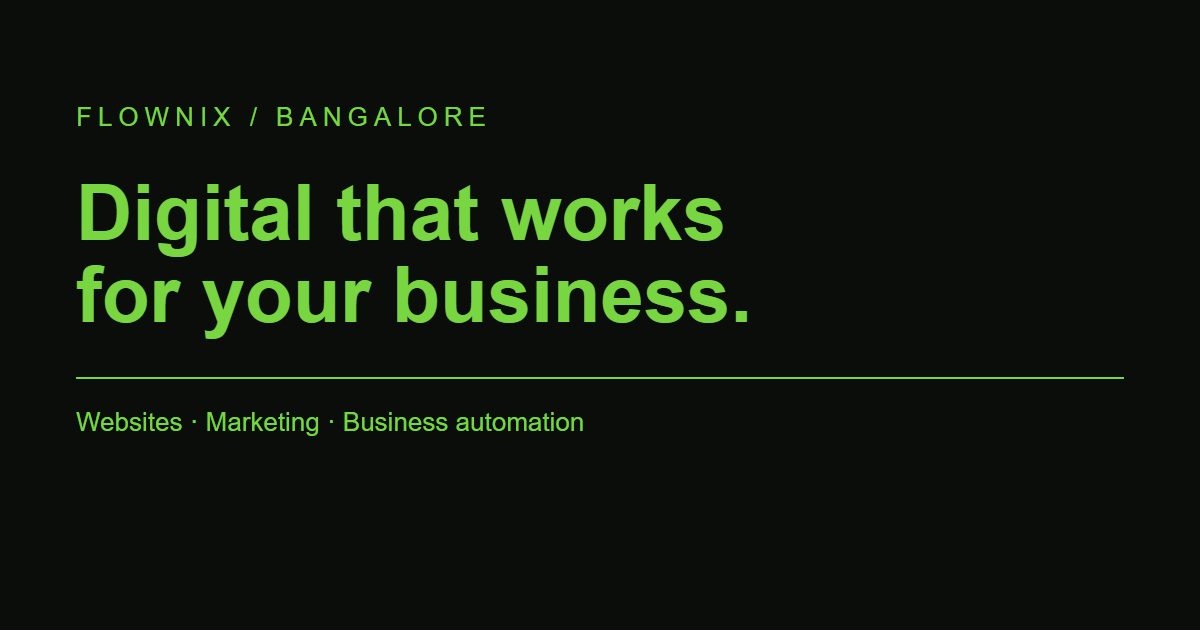
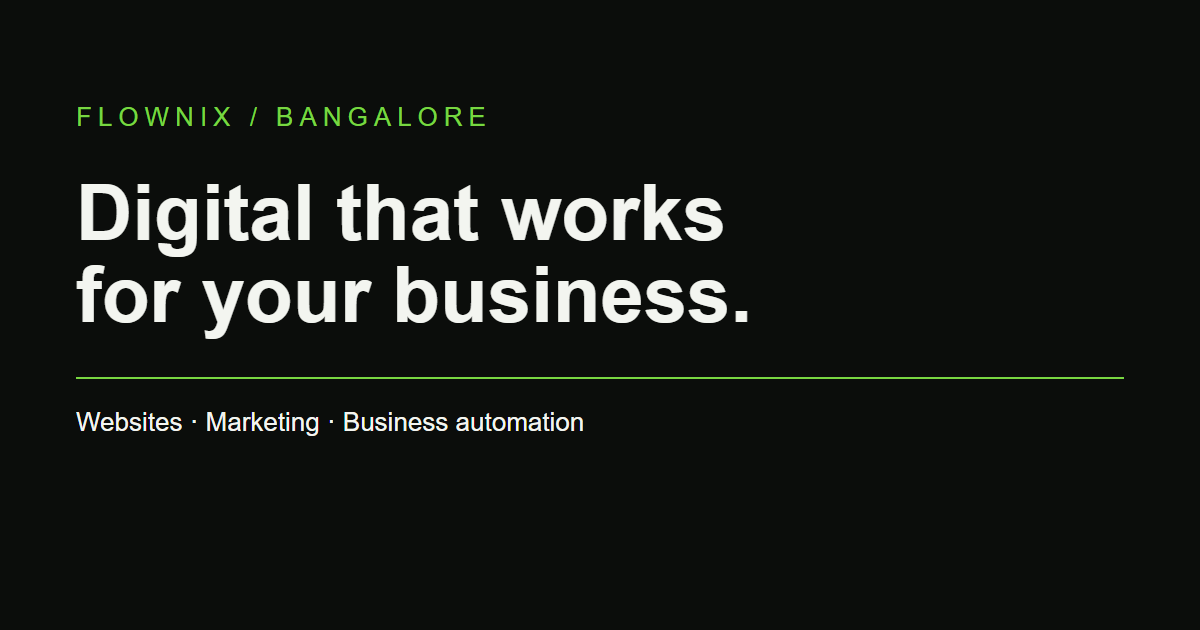
Refine dark theme with neutral text and original project colours

Changed region(s): [[0.0617, 0.2714, 0.6475, 0.5429], [0.0617, 0.6333, 0.4933, 0.6937]]

diff --git a/index-standalone.html b/index-standalone.html
@@ -150,7 +150,7 @@
     .project-image{height:clamp(230px,31vw,390px);display:block;position:relative;overflow:hidden;background:#0B0D0B;isolation:isolate}
     .project-image:after{content:'';position:absolute;inset:35% 0 0;background:linear-gradient(180deg,transparent,rgba(11,13,11,.55));pointer-events:none}
     .project-shot{display:block;width:100%;height:100%;object-fit:cover;object-position:top center;transition:transform .8s cubic-bezier(.2,.7,.2,1),filter .4s ease}
-    .project-work:hover .project-shot{transform:scale(1.045);filter:url(#brand-duotone)}
+    .project-work:hover .project-shot{transform:scale(1.045);filter:none}
     .project-open{position:absolute;z-index:2;right:16px;bottom:15px;display:inline-flex;gap:10px;align-items:center;padding:10px 14px;border:1px solid rgba(120,214,65,.3);border-radius:50px;background:rgba(11,13,11,.72);backdrop-filter:blur(12px);font-size:12px;font-weight:700;color:#78D641;transition:background .25s,color .25s,transform .25s}
     .project-work:hover .project-open{background:var(--lime);color:#0B0D0B;transform:translateY(-2px)}
     .project-kicker{color:var(--lime);font-size:10px;text-transform:uppercase;letter-spacing:1.5px;font-weight:700;margin-bottom:8px}
@@ -172,8 +172,8 @@
     .browser-bar i:first-child{background:#78D641}.browser-bar i:nth-child(2){background:#78D641}.browser-bar i:nth-child(3){background:#78D641}
     .browser-address{height:15px;display:flex;align-items:center;flex:1;min-width:0;margin-left:5px;padding:0 9px;border-radius:5px;background:#78D641;color:#78D641;white-space:nowrap;overflow:hidden;text-overflow:ellipsis;font-size:8px}
     .browser-bar b{font-size:10px;font-weight:500;margin:0 3px}
-    .project-shot{display:block;width:100%;height:calc(100% - 25px);object-fit:cover;object-position:top center;transition:transform .9s cubic-bezier(.2,.7,.2,1),filter .5s;filter:url(#brand-duotone)}
-    .project-work:hover .project-shot{transform:scale(1.055);filter:url(#brand-duotone)}
+    .project-shot{display:block;width:100%;height:calc(100% - 25px);object-fit:cover;object-position:top center;transition:transform .9s cubic-bezier(.2,.7,.2,1),filter .5s;filter:none}
+    .project-work:hover .project-shot{transform:scale(1.055);filter:none}
     .project-open{right:30px;bottom:18px;opacity:0;transform:translateY(8px);transition:opacity .3s,transform .3s;background:rgba(11,13,11,.86);border-color:rgba(120,214,65,.22);backdrop-filter:blur(14px)}
     .project-work:hover .project-open,.project-image:focus-visible .project-open{opacity:1;transform:translateY(0)}
     .project-work .work-info{position:relative;padding:24px 26px 27px;background:linear-gradient(135deg,rgba(120,214,65,.018),transparent 60%)}
@@ -253,18 +253,18 @@
 }
 
 
-/* Final production refinements. Only the two brand colours and their alpha variants. */
+/* Base production refinements; the approved palette revision follows below. */
 :root{--bg:#0B0D0B;--panel:rgba(120,214,65,.035);--panel2:rgba(120,214,65,.06);--text:#78D641;--muted:rgba(120,214,65,.84);--lime:#78D641;--line:rgba(120,214,65,.26);--accent:#78D641}
 body{overflow-wrap:break-word}button,a,input,textarea,select,summary{-webkit-tap-highlight-color:rgba(120,214,65,.2)}
 ::selection{background:#78D641;color:#0B0D0B}input::placeholder,textarea::placeholder{color:rgba(120,214,65,.75);opacity:1}
 input,textarea,select{caret-color:#78D641}select option{background:#0B0D0B;color:#78D641}
 .skip-link{position:fixed;left:16px;top:12px;z-index:100;padding:12px;background:#78D641;color:#0B0D0B;transform:translateY(-160%)}.skip-link:focus{transform:none}
-.brand-filter{position:absolute;width:0;height:0;pointer-events:none}
+
 .navlinks{gap:18px}.navlinks a{padding-block:10px}.navlinks .btn{padding:12px}
 .hero h1{max-width:700px}.hero-visual{right:-10px;top:45px;width:38%;opacity:.72}.hero p{max-width:590px}
 .orbit,.core-3d,.core-spark,.float-chip,.hero .eyebrow,.hero h1,.hero>.wrap>p,.hero .actions{animation:none}
 .reveal{opacity:1;transform:none}.reveal.is-visible{animation:heroEnter .35s ease both}
-.project-work{will-change:auto}.project-shot,.project-work:hover .project-shot{filter:url(#brand-duotone)}
+.project-work{will-change:auto}.project-shot,.project-work:hover .project-shot{filter:none}
 .browser-window,.browser-bar,.browser-address{background:#0B0D0B;color:#78D641}.browser-bar{border-color:var(--line)}
 .browser-bar i,.browser-bar i:first-child,.browser-bar i:nth-child(2),.browser-bar i:nth-child(3){background:#78D641}
 .project-open{opacity:1;transform:none;color:#78D641;background:rgba(11,13,11,.95)}
@@ -294,6 +294,40 @@ input,textarea,select{caret-color:#78D641}select option{background:#0B0D0B;color
 .service-icon{background:rgba(120,214,65,.1);color:#78D641}.pricecard.featured{background:linear-gradient(160deg,rgba(120,214,65,.08),#0B0D0B 55%)}.core-face{background:linear-gradient(145deg,rgba(120,214,65,.12),#0B0D0B 70%);display:flex;align-items:center;justify-content:center}.core-face.face-side{background:#0B0D0B}.btn-ghost{border-color:rgba(120,214,65,.65)}
 @media(min-width:761px){.hero h1{font-size:clamp(44px,5.3vw,76px)}}
 .btn-ghost{background:#0B0D0B}
+
+/* Approved revised palette: black surfaces, off-white type, selective lime accents. */
+:root{--bg:#0B0D0B;--panel:rgba(243,245,240,.035);--panel2:rgba(243,245,240,.06);--text:#F3F5F0;--muted:rgba(243,245,240,.72);--line:rgba(243,245,240,.16)}
+body,h1,h2,h3{color:var(--text)}
+.logo,.navlinks,.menu,.footerlinks,.service ul,.pricecard ul,.field label,.float-chip b{color:var(--text)}
+.hero p,.local-intro p,.project-work .work-info p,.tag,.visual-caption,.browser-address,.browser-bar,.draft-panel textarea{color:var(--muted)}
+.local-intro p strong,.hero-bottom strong{color:var(--text)}
+.section-head h2 .accent,.about h2 .accent,.contact-copy h2 .accent{color:inherit}
+.nav{background:rgba(11,13,11,.96);border-bottom-color:var(--line)}
+.service,.service-track>.service,.pricecard,.project-work,.about-box,.form,.faq-item{background:var(--panel);border-color:var(--line)}
+.pricecard.featured{background:var(--panel2);border-color:rgba(120,214,65,.55)}
+.project-image{background:var(--panel2)}.project-image:before{background:none}
+.project-work .work-info{background:transparent}
+.project-work .work-info:before,.work-info:before{background:var(--line)}
+.project-shot,.project-work:hover .project-shot{filter:none}
+.browser-window,.browser-bar,.browser-address{background:#0B0D0B}
+.browser-window,.browser-bar{border-color:var(--line)}
+.browser-bar i,.browser-bar i:first-child,.browser-bar i:nth-child(2),.browser-bar i:nth-child(3){background:rgba(243,245,240,.4)}
+.project-open{color:var(--text);border-color:rgba(243,245,240,.3)}
+.plain-language-note,.local-intro{background:var(--panel);border-color:var(--line)}
+.faq-section{background:none}
+.band{background:var(--panel2);color:var(--text);border:1px solid var(--line)}
+.band p{color:var(--muted)}.band:after{color:rgba(243,245,240,.025)}
+.band .btn,.band .btn:hover{background:var(--lime);color:var(--bg);border-color:var(--lime)}
+.btn-ghost{color:var(--text);border-color:rgba(243,245,240,.4)}
+.btn-ghost:hover{color:var(--text);border-color:var(--lime)}
+.service-arrow{color:var(--text);border-color:rgba(243,245,240,.4)}
+.service-arrow:hover,.service-arrow:focus-visible{background:var(--lime);color:var(--bg);border-color:var(--lime)}
+.field input,.field textarea,.field select{color:var(--text);border-color:rgba(243,245,240,.4)}
+.field input:focus,.field textarea:focus,.field select:focus{border-color:var(--lime)}
+input::placeholder,textarea::placeholder{color:rgba(243,245,240,.65)}
+select option{background:var(--bg);color:var(--text)}
+.draft-panel textarea{color:var(--text);border-color:rgba(243,245,240,.4)}
+.float-chip{border-color:var(--line)}
 </style>
 <noscript><style>/* Loaded only when scripting is disabled, avoiding a startup layout shift. */
 @media(max-width:1100px){.nav{position:static}.navinner{height:auto;flex-wrap:wrap;padding-block:16px}.navlinks{display:flex;position:static;max-height:none;width:100%;padding:0}.menu{display:none}}
@@ -301,7 +335,6 @@ input,textarea,select{caret-color:#78D641}select option{background:#0B0D0B;color
 </head>
 <body>
   <a class="skip-link" href="#main">Skip to content</a>
-  <svg class="brand-filter" aria-hidden="true" xmlns="http://www.w3.org/2000/svg"><defs><filter id="brand-duotone" color-interpolation-filters="sRGB"><feColorMatrix type="matrix" values=".091 .306 .031 0 .04314 .168 .564 .057 0 .05098 .045 .151 .015 0 .04314 0 0 0 1 0"/></filter></defs></svg>
   <div class="topline"><div class="wrap"><span>Independent digital studio · Based in India, working everywhere</span><span>Available for selected projects ↗</span></div></div>
   <header class="nav"><div class="wrap navinner">
     <a class="logo" href="#home" aria-label="F. FLOWNIX home"><span class="logo-mark">F.</span> FLOWNIX</a>
@@ -404,7 +437,7 @@ input,textarea,select{caret-color:#78D641}select option{background:#0B0D0B;color
           <div class="work-info"><div class="project-kicker">Completed website project</div><h3>Juggle</h3><p>Creative digital agency website with bold 3D-inspired visuals.</p><div class="tagrow"><span class="tag">Website</span><span class="tag">Digital</span><a class="tag" href="https://juggle.co.in/" target="_blank" rel="noopener noreferrer">Visit live website ↗</a></div></div>
         </article>
       </div>
-      <p class="pricing-note">Original project previews, shown in the Flownix colour palette. Open each live website to see its original design.</p>
+      <p class="pricing-note">Original project previews. Open each live website to explore the full design.</p>
     </div></section>
     <section class="section" id="results"><div class="wrap">
       <div class="section-head"><div><div class="eyebrow">03 / Campaign outcomes</div><h2>Marketing that aims<br><span class="accent">beyond clicks.</span></h2></div><p>Lead-generation campaign figures shared by Flownix. Revenue figures are reported potential revenue from enquiries, not confirmed sales or guaranteed revenue.</p></div>

diff --git a/assets/site.css b/assets/site.css
@@ -13,7 +13,7 @@
     .project-image{height:clamp(230px,31vw,390px);display:block;position:relative;overflow:hidden;background:#0B0D0B;isolation:isolate}
     .project-image:after{content:'';position:absolute;inset:35% 0 0;background:linear-gradient(180deg,transparent,rgba(11,13,11,.55));pointer-events:none}
     .project-shot{display:block;width:100%;height:100%;object-fit:cover;object-position:top center;transition:transform .8s cubic-bezier(.2,.7,.2,1),filter .4s ease}
-    .project-work:hover .project-shot{transform:scale(1.045);filter:url(#brand-duotone)}
+    .project-work:hover .project-shot{transform:scale(1.045);filter:none}
     .project-open{position:absolute;z-index:2;right:16px;bottom:15px;display:inline-flex;gap:10px;align-items:center;padding:10px 14px;border:1px solid rgba(120,214,65,.3);border-radius:50px;background:rgba(11,13,11,.72);backdrop-filter:blur(12px);font-size:12px;font-weight:700;color:#78D641;transition:background .25s,color .25s,transform .25s}
     .project-work:hover .project-open{background:var(--lime);color:#0B0D0B;transform:translateY(-2px)}
     .project-kicker{color:var(--lime);font-size:10px;text-transform:uppercase;letter-spacing:1.5px;font-weight:700;margin-bottom:8px}
@@ -35,8 +35,8 @@
     .browser-bar i:first-child{background:#78D641}.browser-bar i:nth-child(2){background:#78D641}.browser-bar i:nth-child(3){background:#78D641}
     .browser-address{height:15px;display:flex;align-items:center;flex:1;min-width:0;margin-left:5px;padding:0 9px;border-radius:5px;background:#78D641;color:#78D641;white-space:nowrap;overflow:hidden;text-overflow:ellipsis;font-size:8px}
     .browser-bar b{font-size:10px;font-weight:500;margin:0 3px}
-    .project-shot{display:block;width:100%;height:calc(100% - 25px);object-fit:cover;object-position:top center;transition:transform .9s cubic-bezier(.2,.7,.2,1),filter .5s;filter:url(#brand-duotone)}
-    .project-work:hover .project-shot{transform:scale(1.055);filter:url(#brand-duotone)}
+    .project-shot{display:block;width:100%;height:calc(100% - 25px);object-fit:cover;object-position:top center;transition:transform .9s cubic-bezier(.2,.7,.2,1),filter .5s;filter:none}
+    .project-work:hover .project-shot{transform:scale(1.055);filter:none}
     .project-open{right:30px;bottom:18px;opacity:0;transform:translateY(8px);transition:opacity .3s,transform .3s;background:rgba(11,13,11,.86);border-color:rgba(120,214,65,.22);backdrop-filter:blur(14px)}
     .project-work:hover .project-open,.project-image:focus-visible .project-open{opacity:1;transform:translateY(0)}
     .project-work .work-info{position:relative;padding:24px 26px 27px;background:linear-gradient(135deg,rgba(120,214,65,.018),transparent 60%)}
@@ -116,18 +116,18 @@
 }
 
 
-/* Final production refinements. Only the two brand colours and their alpha variants. */
+/* Base production refinements; the approved palette revision follows below. */
 :root{--bg:#0B0D0B;--panel:rgba(120,214,65,.035);--panel2:rgba(120,214,65,.06);--text:#78D641;--muted:rgba(120,214,65,.84);--lime:#78D641;--line:rgba(120,214,65,.26);--accent:#78D641}
 body{overflow-wrap:break-word}button,a,input,textarea,select,summary{-webkit-tap-highlight-color:rgba(120,214,65,.2)}
 ::selection{background:#78D641;color:#0B0D0B}input::placeholder,textarea::placeholder{color:rgba(120,214,65,.75);opacity:1}
 input,textarea,select{caret-color:#78D641}select option{background:#0B0D0B;color:#78D641}
 .skip-link{position:fixed;left:16px;top:12px;z-index:100;padding:12px;background:#78D641;color:#0B0D0B;transform:translateY(-160%)}.skip-link:focus{transform:none}
-.brand-filter{position:absolute;width:0;height:0;pointer-events:none}
+
 .navlinks{gap:18px}.navlinks a{padding-block:10px}.navlinks .btn{padding:12px}
 .hero h1{max-width:700px}.hero-visual{right:-10px;top:45px;width:38%;opacity:.72}.hero p{max-width:590px}
 .orbit,.core-3d,.core-spark,.float-chip,.hero .eyebrow,.hero h1,.hero>.wrap>p,.hero .actions{animation:none}
 .reveal{opacity:1;transform:none}.reveal.is-visible{animation:heroEnter .35s ease both}
-.project-work{will-change:auto}.project-shot,.project-work:hover .project-shot{filter:url(#brand-duotone)}
+.project-work{will-change:auto}.project-shot,.project-work:hover .project-shot{filter:none}
 .browser-window,.browser-bar,.browser-address{background:#0B0D0B;color:#78D641}.browser-bar{border-color:var(--line)}
 .browser-bar i,.browser-bar i:first-child,.browser-bar i:nth-child(2),.browser-bar i:nth-child(3){background:#78D641}
 .project-open{opacity:1;transform:none;color:#78D641;background:rgba(11,13,11,.95)}
@@ -157,3 +157,37 @@ input,textarea,select{caret-color:#78D641}select option{background:#0B0D0B;color
 .service-icon{background:rgba(120,214,65,.1);color:#78D641}.pricecard.featured{background:linear-gradient(160deg,rgba(120,214,65,.08),#0B0D0B 55%)}.core-face{background:linear-gradient(145deg,rgba(120,214,65,.12),#0B0D0B 70%);display:flex;align-items:center;justify-content:center}.core-face.face-side{background:#0B0D0B}.btn-ghost{border-color:rgba(120,214,65,.65)}
 @media(min-width:761px){.hero h1{font-size:clamp(44px,5.3vw,76px)}}
 .btn-ghost{background:#0B0D0B}
+
+/* Approved revised palette: black surfaces, off-white type, selective lime accents. */
+:root{--bg:#0B0D0B;--panel:rgba(243,245,240,.035);--panel2:rgba(243,245,240,.06);--text:#F3F5F0;--muted:rgba(243,245,240,.72);--line:rgba(243,245,240,.16)}
+body,h1,h2,h3{color:var(--text)}
+.logo,.navlinks,.menu,.footerlinks,.service ul,.pricecard ul,.field label,.float-chip b{color:var(--text)}
+.hero p,.local-intro p,.project-work .work-info p,.tag,.visual-caption,.browser-address,.browser-bar,.draft-panel textarea{color:var(--muted)}
+.local-intro p strong,.hero-bottom strong{color:var(--text)}
+.section-head h2 .accent,.about h2 .accent,.contact-copy h2 .accent{color:inherit}
+.nav{background:rgba(11,13,11,.96);border-bottom-color:var(--line)}
+.service,.service-track>.service,.pricecard,.project-work,.about-box,.form,.faq-item{background:var(--panel);border-color:var(--line)}
+.pricecard.featured{background:var(--panel2);border-color:rgba(120,214,65,.55)}
+.project-image{background:var(--panel2)}.project-image:before{background:none}
+.project-work .work-info{background:transparent}
+.project-work .work-info:before,.work-info:before{background:var(--line)}
+.project-shot,.project-work:hover .project-shot{filter:none}
+.browser-window,.browser-bar,.browser-address{background:#0B0D0B}
+.browser-window,.browser-bar{border-color:var(--line)}
+.browser-bar i,.browser-bar i:first-child,.browser-bar i:nth-child(2),.browser-bar i:nth-child(3){background:rgba(243,245,240,.4)}
+.project-open{color:var(--text);border-color:rgba(243,245,240,.3)}
+.plain-language-note,.local-intro{background:var(--panel);border-color:var(--line)}
+.faq-section{background:none}
+.band{background:var(--panel2);color:var(--text);border:1px solid var(--line)}
+.band p{color:var(--muted)}.band:after{color:rgba(243,245,240,.025)}
+.band .btn,.band .btn:hover{background:var(--lime);color:var(--bg);border-color:var(--lime)}
+.btn-ghost{color:var(--text);border-color:rgba(243,245,240,.4)}
+.btn-ghost:hover{color:var(--text);border-color:var(--lime)}
+.service-arrow{color:var(--text);border-color:rgba(243,245,240,.4)}
+.service-arrow:hover,.service-arrow:focus-visible{background:var(--lime);color:var(--bg);border-color:var(--lime)}
+.field input,.field textarea,.field select{color:var(--text);border-color:rgba(243,245,240,.4)}
+.field input:focus,.field textarea:focus,.field select:focus{border-color:var(--lime)}
+input::placeholder,textarea::placeholder{color:rgba(243,245,240,.65)}
+select option{background:var(--bg);color:var(--text)}
+.draft-panel textarea{color:var(--text);border-color:rgba(243,245,240,.4)}
+.float-chip{border-color:var(--line)}

diff --git a/index.html b/index.html
@@ -140,7 +140,6 @@
 </head>
 <body>
   <a class="skip-link" href="#main">Skip to content</a>
-  <svg class="brand-filter" aria-hidden="true" xmlns="http://www.w3.org/2000/svg"><defs><filter id="brand-duotone" color-interpolation-filters="sRGB"><feColorMatrix type="matrix" values=".091 .306 .031 0 .04314 .168 .564 .057 0 .05098 .045 .151 .015 0 .04314 0 0 0 1 0"/></filter></defs></svg>
   <div class="topline"><div class="wrap"><span>Independent digital studio · Based in India, working everywhere</span><span>Available for selected projects ↗</span></div></div>
   <header class="nav"><div class="wrap navinner">
     <a class="logo" href="#home" aria-label="F. FLOWNIX home"><span class="logo-mark">F.</span> FLOWNIX</a>
@@ -243,7 +242,7 @@
           <div class="work-info"><div class="project-kicker">Completed website project</div><h3>Juggle</h3><p>Creative digital agency website with bold 3D-inspired visuals.</p><div class="tagrow"><span class="tag">Website</span><span class="tag">Digital</span><a class="tag" href="https://juggle.co.in/" target="_blank" rel="noopener noreferrer">Visit live website ↗</a></div></div>
         </article>
       </div>
-      <p class="pricing-note">Original project previews, shown in the Flownix colour palette. Open each live website to see its original design.</p>
+      <p class="pricing-note">Original project previews. Open each live website to explore the full design.</p>
     </div></section>
     <section class="section" id="results"><div class="wrap">
       <div class="section-head"><div><div class="eyebrow">03 / Campaign outcomes</div><h2>Marketing that aims<br><span class="accent">beyond clicks.</span></h2></div><p>Lead-generation campaign figures shared by Flownix. Revenue figures are reported potential revenue from enquiries, not confirmed sales or guaranteed revenue.</p></div>

diff --git a/DEPLOYMENT.md b/DEPLOYMENT.md
@@ -60,7 +60,7 @@ Before launch, open the email and WhatsApp drafts on your own desktop/phone and 
 
 ## Images and design
 
-All five supplied WebP files are unchanged. CSS applies a reversible black/lime duotone display filter; original screenshots, including their browser chrome and crop, remain intact. The live links show original site colours. `social-card.png` is a typographic Flownix share card, not a portfolio replacement.
+All five supplied WebP files are unchanged. The owner approved black backgrounds, off-white text, lime accents and original-colour project previews on 12 October 2026, replacing the initial strict two-colour brief. Image tinting has been removed; screenshots, including their browser chrome and crop, remain intact. `social-card.png` is a typographic Flownix share card, not a portfolio replacement.
 
 CSS and JavaScript were extracted from the original HTML. Build minifies CSS. Device sans-serif fonts replace external font requests. Portfolio images load lazily and specify their intrinsic dimensions.
 

diff --git a/README.md b/README.md
@@ -18,6 +18,6 @@ Read `DEPLOYMENT.md`. Purchase/confirm the domain, set `SITE_URL`, run `npm ci` 
 
 The enquiry flow prepares a draft locally for email/WhatsApp; it does not submit to a backend. It never claims a message was sent. Test actual handoff and receipt yourself before launch.
 
-All five supplied WebP assets are unchanged. A reversible CSS duotone filter enforces the black/lime display palette. No runtime dependencies, credentials, database or API service are needed for this static implementation.
+All five supplied WebP assets are unchanged. The approved revised design uses black surfaces, off-white text, lime accents and original-colour project images. No runtime dependencies, credentials, database or API service are needed for this static implementation.
 
 Generated build output and test evidence are excluded from Git. The delivered audit ZIP contains the original test evidence; running the documented checks regenerates it locally.

diff --git a/AUDIT-REPORT.md b/AUDIT-REPORT.md
@@ -1,5 +1,8 @@
 # Flownix pre-deployment audit
 
+> **Design update — 12 October 2026:** The owner replaced the original two-colour requirement with black backgrounds, off-white text, lime accents and original-colour project previews. The green image filter has been removed. The original audit below records the earlier design; its Lighthouse scores apply to that earlier audited build. Current theme checks are run separately.
+
+
 Audit date: 10 October 2026. Verdict: **READY AFTER THE LISTED MANUAL STEPS**.
 
 No deployment, DNS changes or outbound enquiries were made. The supplied ZIP remains unchanged. Work was done in a separately extracted folder. The archive contained ten files and no Git metadata; the parent directory was not a Git repository. The original source documents and both HTML files were backed up outside the deliverable project before editing.
